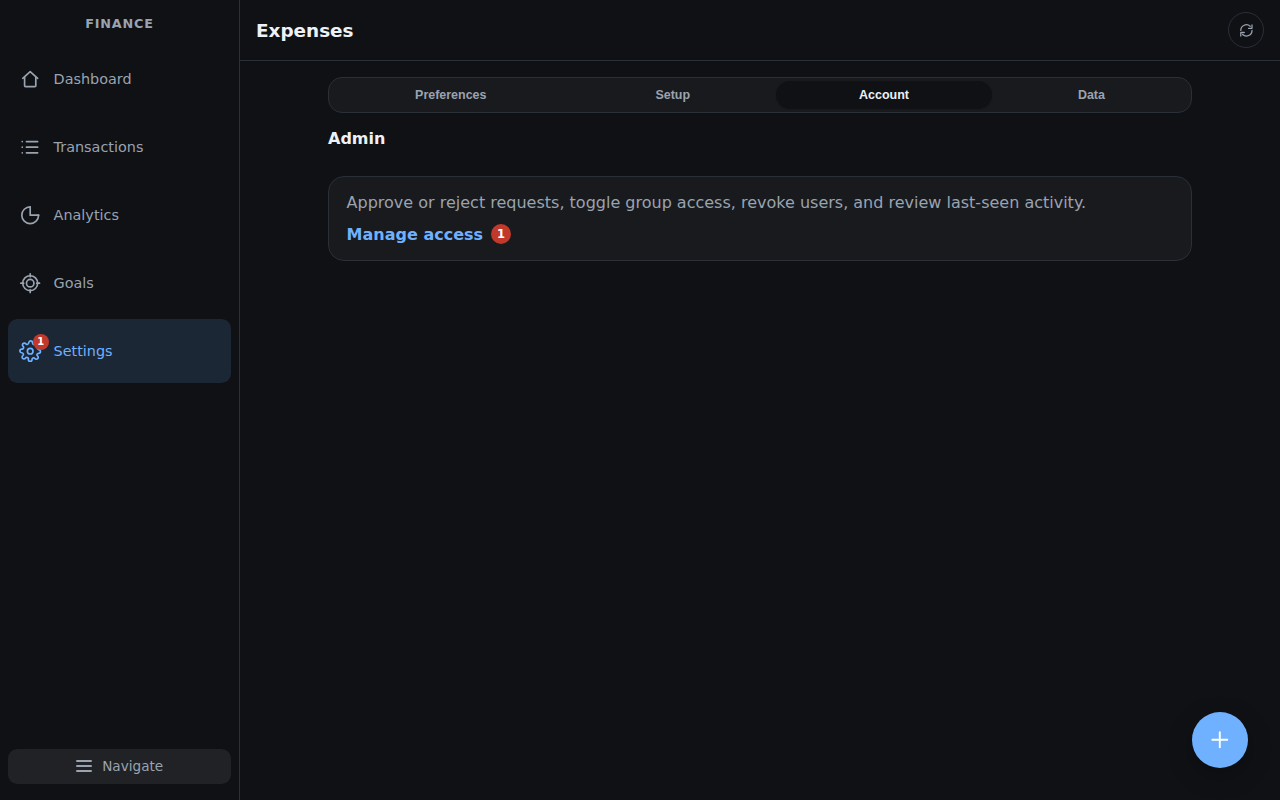
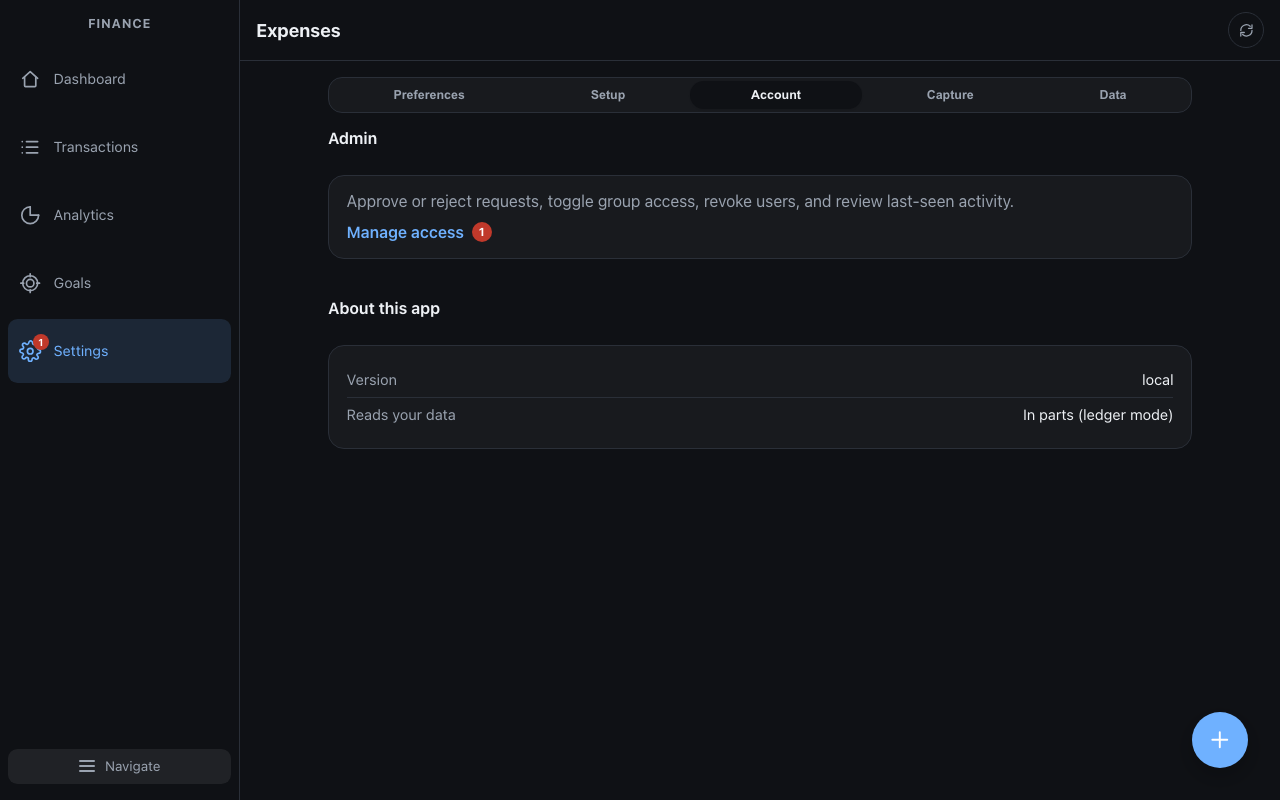
Retake the Settings pictures in the docs gallery
They still showed the old Account tab with the capture cards. Account is retaken, and the Capture tab gets its own desktop and mobile picture.

diff --git a/docs/SCREENSHOT-GALLERY.md b/docs/SCREENSHOT-GALLERY.md
@@ -155,7 +155,13 @@ Scenarios opens at its first section. The draft's chart and the section chips st
 | --- | --- |
 | ![Settings desktop](./screenshots/gallery/settings-desktop.png) | ![Settings mobile](./screenshots/gallery/settings-mobile.png) |
 
-**Card statements** section: one tap-to-edit row per account per month, each showing its charge amount — same row and editor used on Dashboard and Transactions.
+On the **Setup** tab, the **Card statements** section: one tap-to-edit row per account per month, each showing its charge amount — same row and editor used on Dashboard and Transactions.
+
+The **Capture** tab holds the setup steps, the capture key, notifications, linked cards, muted pushes and capture diagnostics:
+
+| Desktop | Mobile |
+| --- | --- |
+| ![Settings Capture desktop](./screenshots/gallery/settings-capture-desktop.png) | ![Settings Capture mobile](./screenshots/gallery/settings-capture-mobile.png) |
 
 ## Access admin
 
